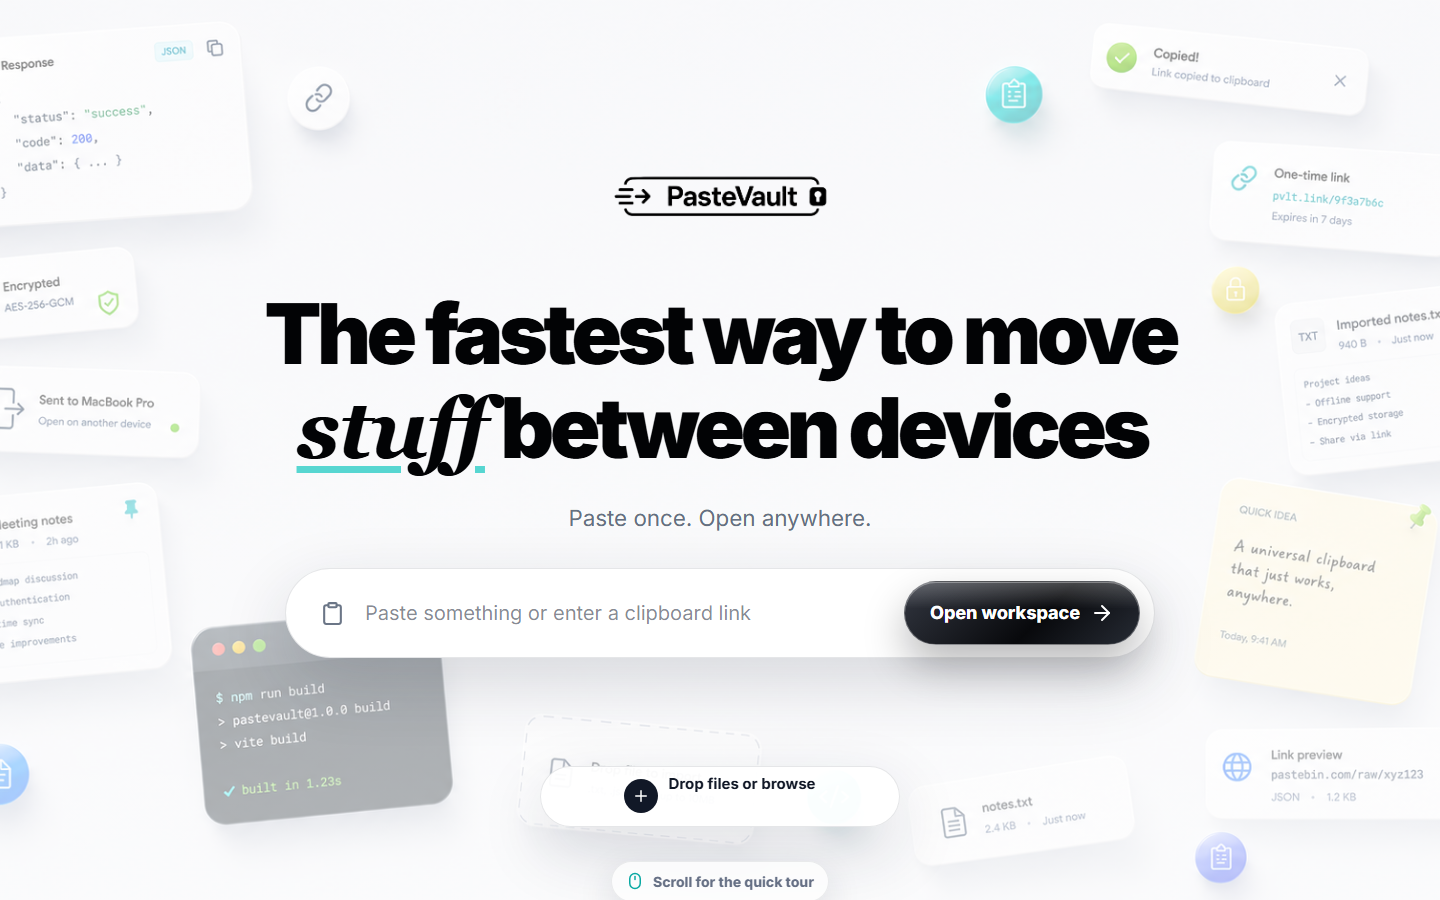
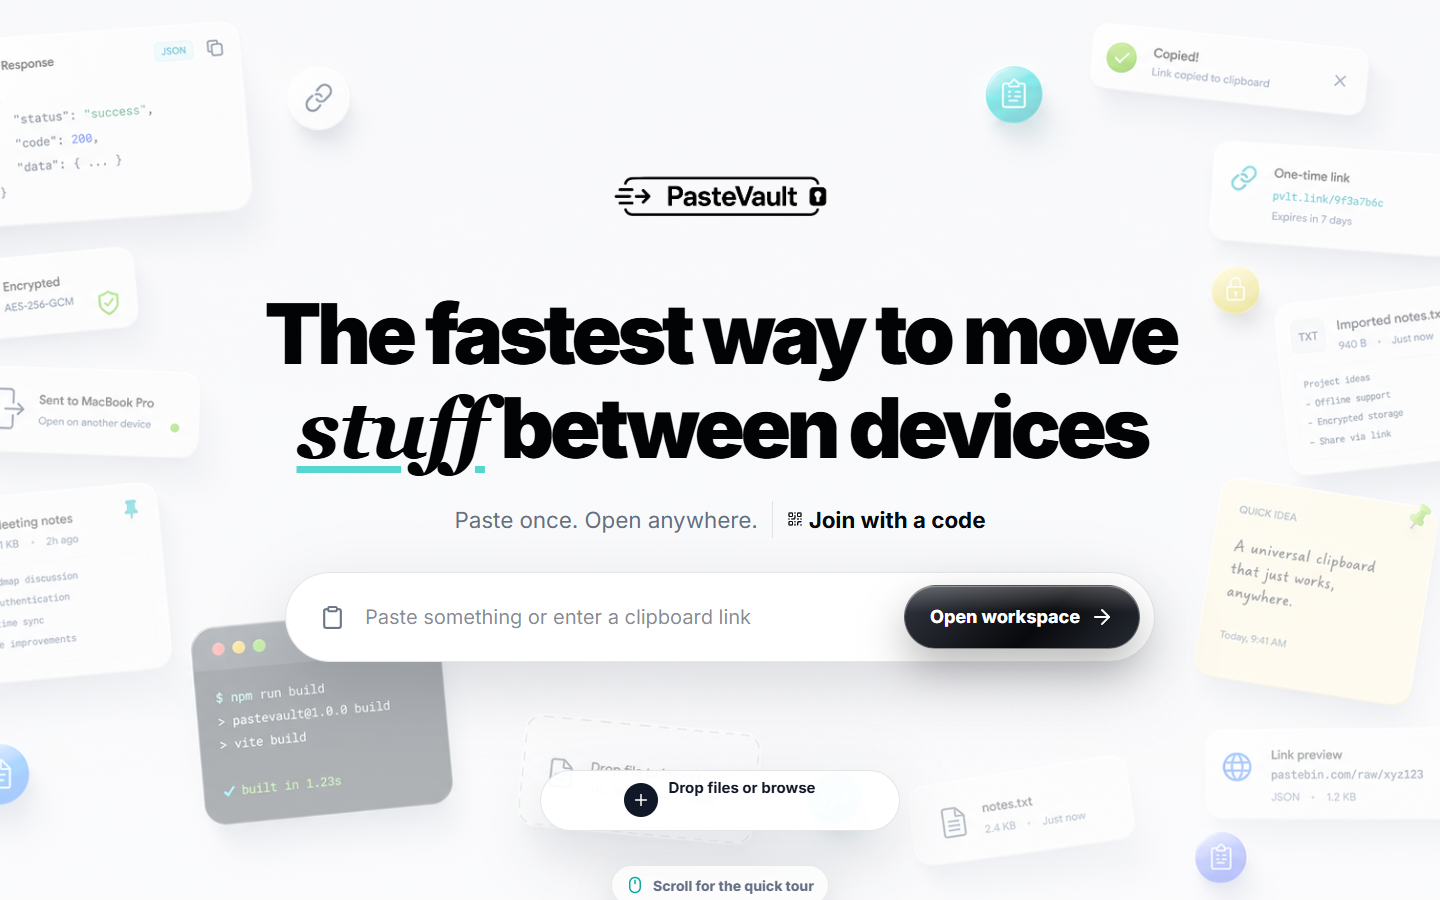
v3 docs: README, changelog, spec and screenshots; add QR decode check
- README documents pairing, sync behaviour, health endpoint and checks
- CHANGELOG.md for v3, SPEC.md API contract for health, pairing and 304
- new pair and hero screenshots
- qr:check proves generated QR codes decode with the jsQR fallback;
  pair-check now exercises the no-BarcodeDetector path
- bump version to 0.3.0, run qr:check in CI

diff --git a/README.md b/README.md
@@ -13,9 +13,26 @@ No account. Your clipboard is a link. Lock it with a password and even the serve
 ## What it does
 
 - **One link, one clipboard.** The first paste creates it; clips stay until you delete them
+- **Pair a device in seconds.** Show a QR code and a one-time 6-character code, then scan or type it on the other device
+- **Near-realtime sync.** Changes appear on your other devices within seconds, and instantly when you switch back to the tab
 - **Copy in one tap**, read straight from the system clipboard, share a single clip by link
 - **Import and export** text/code files and full JSON history, with per-file validation
 - **Installable** as a PWA
+
+<p>
+  <img src="docs/media/pair-desktop.png" alt="Pair a device dialog with a QR code and a one-time code" width="62%" />
+  <img src="docs/media/pair-mobile.png" alt="The same dialog on a phone" width="22%" />
+</p>
+
+## Pairing
+
+Open **Options → Pair device** on any clipboard.
+
+- The **QR code** is generated in the browser (no external service) and opens the clipboard directly.
+- The **6-character code** is single use and expires after 10 minutes. It uses an alphabet without look-alike characters (no `0/O`, `1/I/L`) and the lookup endpoint is rate limited.
+- On the other device choose **Join with a code** on the landing page, then type the code or tap **Scan QR**. Scanning uses the native `BarcodeDetector` where it exists and falls back to a lazy-loaded `jsQR` decoder in browsers without it. If the camera is blocked you can always type the code.
+
+A code only hands out the clipboard link, which is already the secret for an unlocked clipboard. A password-protected clipboard still asks for its password on the new device.
 
 ## How the encryption works
 
@@ -27,6 +44,12 @@ Encryption happens in the browser with **AES-256-GCM**, before anything is synce
 
 The server can route your data but can't read it.
 
+## How sync works
+
+Each device polls for changes every 3 seconds while the tab is visible (backing off to 10 seconds when idle) and refreshes immediately on focus or reconnect. Polls send the version the device already has, and the API answers `304 Not Modified` so unchanged ciphertext is never re-downloaded. Conflicting edits are detected by content version and never overwrite a newer remote save silently.
+
+`GET /api/health` reports whether hosted storage is reachable (`ok`, `not-configured`, `unauthorized`, `unreachable`, `timeout`) without exposing any connection details, and the real storage error is logged server-side.
+
 ## Run it
 
 ```bash
@@ -35,10 +58,26 @@ npm start          # http://localhost:4000
 npm test
 ```
 
-For cross-device sync, set `UPSTASH_REDIS_REST_URL` + `UPSTASH_REDIS_REST_TOKEN` (or `KV_REST_API_URL` + `KV_REST_API_TOKEN`). Without them it runs fully local.
+The dev server also serves the `/api` functions, using an in-memory store when no Redis is configured, so sync and pairing work locally without any setup.
+
+For cross-device sync in production, set `UPSTASH_REDIS_REST_URL` + `UPSTASH_REDIS_REST_TOKEN` (or `KV_REST_API_URL` + `KV_REST_API_TOKEN`). Without them the app runs fully local and production writes return `503` rather than pretending to sync.
+
+## Checks
+
+```bash
+npm run verify           # lint, build, smoke, store and API checks
+npm run functional:check # browser checks, need `npm start` running
+npm run pair:check       # QR, one-time code and camera flow
+npm run qr:check         # generated QR codes decode with the jsQR fallback
+npm run sync:check
+npm run mobile:check
+npm run visual:check
+```
 
 ## Built with
 
-React, Vite, Tailwind CSS, Web Crypto API, Vercel Functions, Upstash Redis.
+React, Vite, Tailwind CSS, Web Crypto API, Vercel Functions, Upstash Redis, qrcode-generator, jsQR.
+
+See [CHANGELOG.md](CHANGELOG.md) for what changed in each version.
 
 MIT © [Kingsley Aremu](https://github.com/iice257)

diff --git a/docs/SPEC.md b/docs/SPEC.md
@@ -18,7 +18,7 @@ PasteVault is a no-account, link-based online clipboard for moving text, code, c
 - User accounts, profiles, teams, or billing.
 - Plaintext server-side clipboard storage.
 - Social sharing feeds or collaboration comments.
-- File/image storage as a core v1 capability.
+- File/image storage as a core v1 capability (planned as small client-side encrypted files after v3).
 - Server-side search over clipboard content.
 
 ## Routing
@@ -131,9 +131,11 @@ Returns the encrypted clipboard record for a valid id.
 Responses:
 
 - `200` with encrypted record.
+- `304` with no body when the `X-PasteVault-Known-Version` header is at least the stored content version.
 - `400` for invalid id.
 - `404` when not found.
 - `429` when rate limited.
+- `503` when hosted storage is unavailable.
 
 ### `PUT /api/clip/:id`
 
@@ -146,6 +148,35 @@ Responses:
 - `413` when body exceeds the configured maximum.
 - `429` when rate limited.
 
+### `GET /api/health`
+
+Reports storage reachability without exposing connection details.
+
+- `200 { "ok": true, "storage": "ok", "latencyMs": n }` when Redis answers.
+- `200 { "ok": false, "storage": "not-configured" }` when no credentials are set.
+- `503 { "ok": false, "storage": "unauthorized" | "rejected" | "timeout" | "unreachable" }` when the call fails. The underlying status and body are logged server-side only.
+
+### `POST /api/code`
+
+Body `{ "clipboardId": "<id>" }`. Creates a single-use pairing code that resolves to that clipboard id.
+
+- `200 { "code": "ABC234", "expiresAt": "<iso>" }`. Codes are 6 characters from `ABCDEFGHJKMNPQRSTUVWXYZ23456789` and expire after 600 seconds.
+- `400` for an invalid clipboard id, `415` for a non-JSON body, `429` when rate limited, `503` when storage is unavailable.
+
+### `GET /api/code/:code`
+
+Resolves and burns a pairing code (`GETDEL`), case-insensitively.
+
+- `200 { "clipboardId": "<id>" }`.
+- `400` for a malformed code, `404` when unknown, expired or already used, `429` when rate limited.
+
+## Pairing Flow
+
+1. On a clipboard, **Pair device** saves pending content, then requests a code from `POST /api/code`.
+2. The dialog shows a locally generated QR of `/clip/:id`, the code and a countdown. **New code** issues another.
+3. On the other device, **Join with a code** (landing page) or the **Join** tab accepts a typed code or a scanned QR. A scanned QR containing a clipboard link opens it directly; a code is resolved through `GET /api/code/:code`.
+4. Camera access uses `BarcodeDetector` when available and a lazy-loaded `jsQR` decoder otherwise. The camera stops when scanning ends, the tab changes or the dialog closes. Typing the code always works.
+
 ## Security Requirements
 
 - No account model or auth tokens.
@@ -157,6 +188,9 @@ Responses:
 - Clipboard content should never be rendered through unsafe HTML.
 - Markdown/HTML preview features, if added later, must sanitize output.
 - Error messages must not leak secrets or full payload data.
+- Pairing codes are single use, expire after 10 minutes, avoid look-alike characters and are rate limited per client.
+- A pairing code only reveals the clipboard id, which is already the capability for an unlocked clipboard. Password-protected clipboards still require the password.
+- The camera permission is limited to this origin (`Permissions-Policy: camera=(self)`); QR codes are generated locally with no third-party service.
 
 ## UI Requirements
 
@@ -238,6 +272,9 @@ npm test
 npm run api:check
 npm run functional:check
 npm run interaction:check
+npm run sync:check
+npm run pair:check
+npm run qr:check
 npm run visual:check
 npm audit --audit-level=moderate
 ```

diff --git a/CHANGELOG.md b/CHANGELOG.md
@@ -1,0 +1,33 @@
+# Changelog
+
+## v3.0.0 — pairing and near-realtime sync
+
+**Pair a device**
+- New *Pair device* dialog with a locally generated QR code and a one-time 6-character code (10 minute expiry, no look-alike characters, single use).
+- Join by typing the code or scanning a QR inside the app. Uses the native `BarcodeDetector` and falls back to a lazy-loaded `jsQR` decoder; typing always works.
+- Entry points on the landing page (*Join with a code*), the header options menu, the mobile action row and the tools panel.
+- New `POST /api/code` and `GET /api/code/:code`, rate limited, with codes redeemed atomically so they cannot be reused.
+
+**Sync**
+- Polling now sends the version the device already holds and the API replies `304 Not Modified`, so unchanged ciphertext is not re-downloaded.
+- Devices catch up immediately on tab focus, visibility change and reconnect, and back off from 3s to 10s polling after 20 unchanged polls.
+- Unread 404/304 response bodies are released so connections settle.
+
+**Reliability**
+- Storage failures are logged server-side with the real Upstash status and tagged with a reason (`unauthorized`, `rejected`, `timeout`, `unreachable`).
+- New `GET /api/health` reports storage state without exposing connection details.
+- The dev server now serves `/api/*`, using the in-memory store when Redis is not configured.
+
+**Quality**
+- New `pair:check` (full browser flow including camera start/stop and the legacy scanner path) and `qr:check` (generated QR codes decode with jsQR). API checks cover `304`, pairing, single use and rate limiting.
+- Visual checks use an isolated clipboard per theme now that sync is real.
+- `Permissions-Policy` allows the camera for this origin only.
+
+## Before v3
+
+Earlier work, summarised from the commit history (versions were not tagged):
+
+- Showcase-first README with screenshots, MIT license.
+- Stricter session state validation with explicit enums.
+- Fixes for hosted share sync, mobile polish and a reworked dashboard workspace.
+- Link-based clipboards with AES-256-GCM encryption, optional PBKDF2 password protection, import/export, history and an installable PWA.

diff --git a/docs/TASKS.md b/docs/TASKS.md
@@ -14,8 +14,14 @@
 - Add smoke test.
 - Add visual and functional Playwright checks.
 
+- v3: storage failure reasons in logs plus `GET /api/health`.
+- v3: conditional polling (`304`), instant catch-up on focus and reconnect, idle backoff.
+- v3: Pair device dialog with local QR, one-time 6-character codes, in-app camera scanner and typed fallback.
+- v3: dev server serves `/api` locally so sync and pairing work without Redis.
+
 ## Next
 
-- Add QR code generation without external services.
-- Provision hosted KV/Redis environment variables in Vercel.
+- Provision a working Upstash Redis database for production and verify `/api/health` reports `ok`.
 - Add conflict UI for simultaneous cross-device edits.
+- Small client-side encrypted images and files (5-10 MB cap).
+- Push-based sync (SSE or a realtime service) if polling latency becomes a problem.
